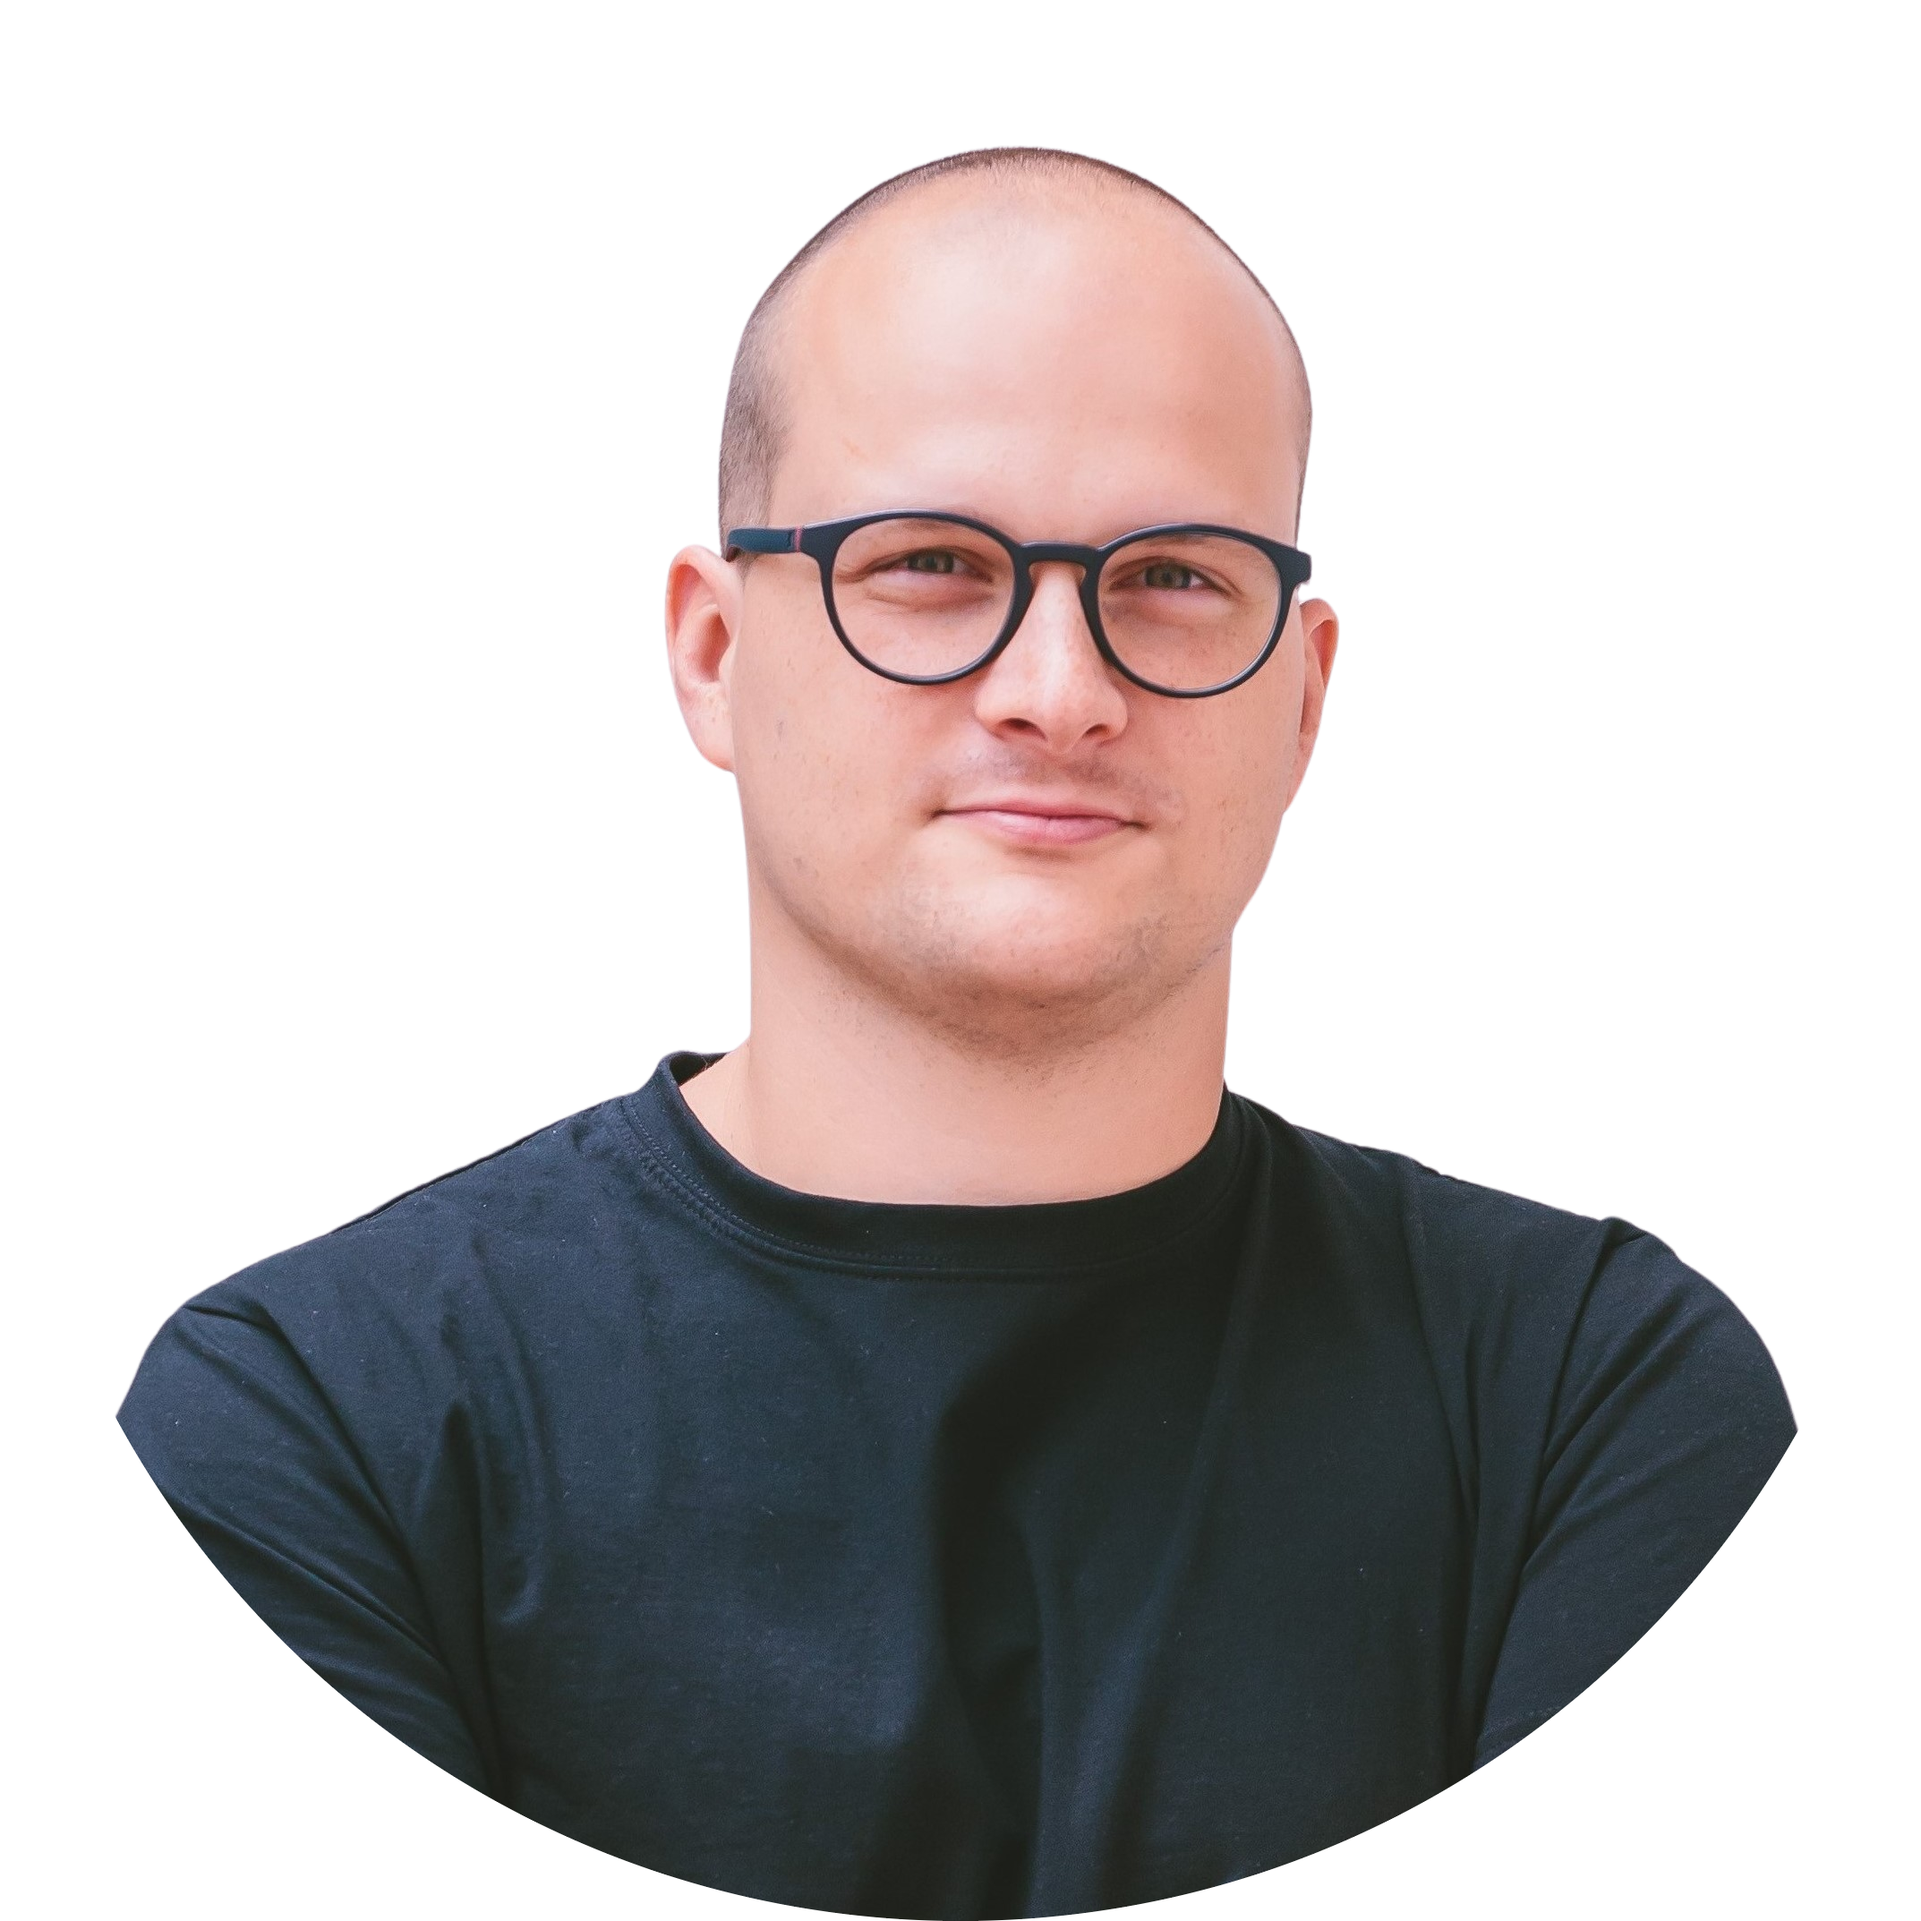
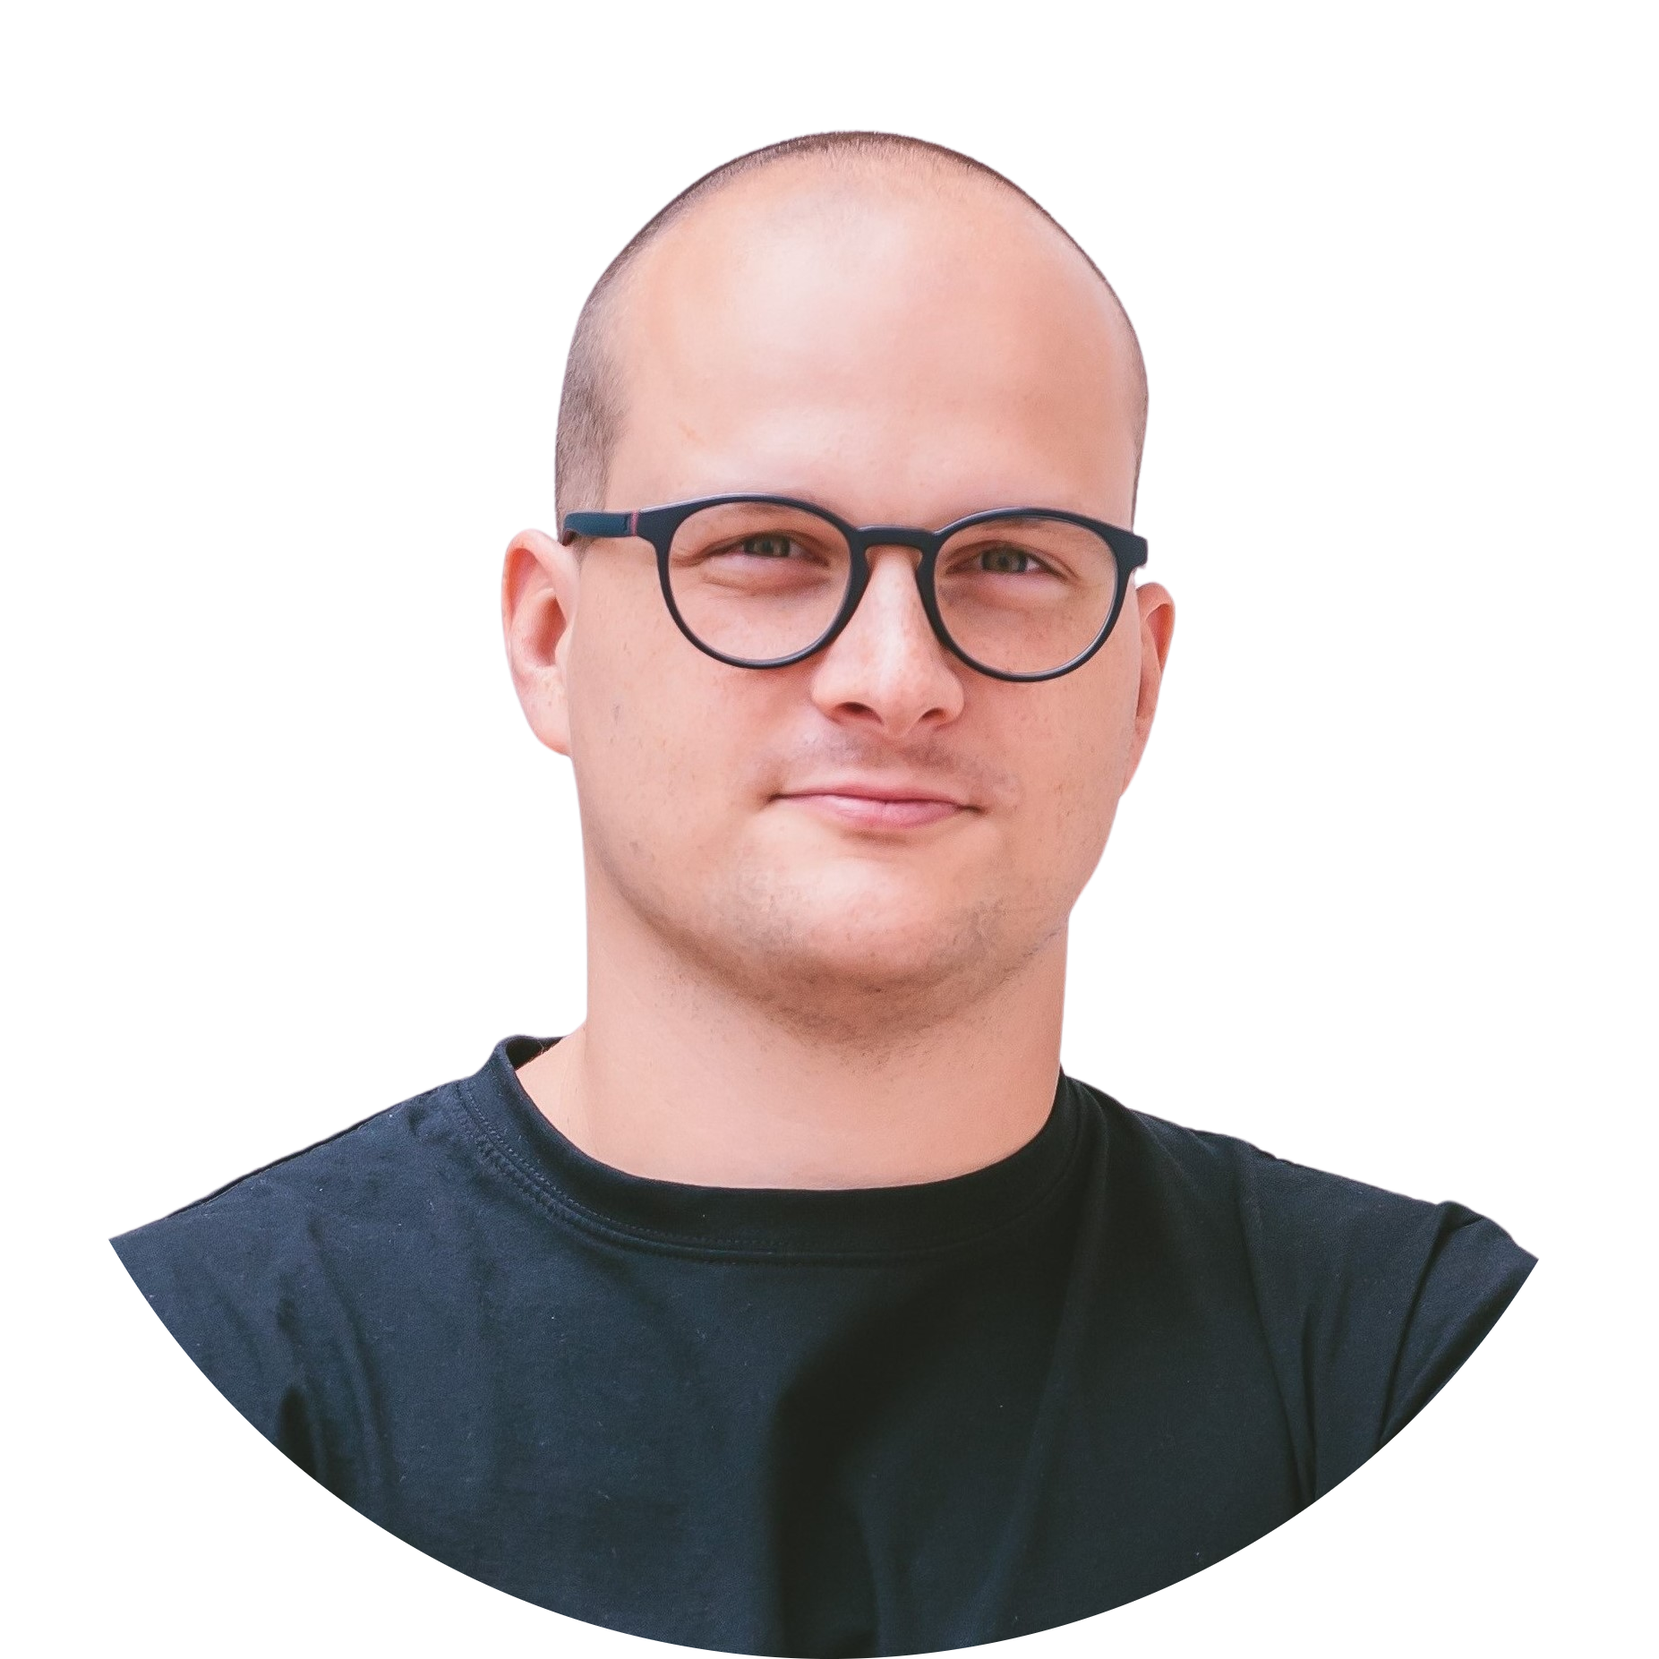
replace hero img and fix navbar padding

diff --git a/style.css b/style.css
@@ -9,14 +9,11 @@
 
 body {
   font-family: "Poppins", sans-serif;
+  margin-top: 5vh;
 }
 
 html {
   scroll-behavior: smooth;
-}
-
-p {
-  color: rgb(85, 85, 85);
 }
 
 /* transition */
@@ -34,12 +31,23 @@ nav,
 }
 
 nav {
-  justify-content: space-around;
+  display: flex;
+  position: fixed;
+  top: 0;
+  left: 0;
+  width: 100%;
+  z-index: 1000;
+  background-color: rgba(255, 255, 255, 0.7);
+  backdrop-filter: blur(10px);
+  justify-content: space-between;
   align-items: center;
+  padding: 0 2rem;
   height: 5vh;
+  box-sizing: border-box;
 }
 
 .nav-links {
+  display: flex;
   gap: 2rem;
   list-style: none;
   font-size: 1.5rem;
@@ -68,13 +76,13 @@ a:hover {
 
 /* hamburger menu */
 
-.hamburger-nav {
+#hamburger-nav {
   display: none;
 }
 
 .hamburger-menu {
   position: relative;
-  display: block;
+  display: inline-block;
 }
 
 .hamburger-icon {
@@ -111,7 +119,7 @@ a:hover {
   font-size: 1.5rem;
   color: black;
   text-decoration: none;
-  transition: all 0.3s ease-in-out;
+  transition: all 0.3 ease-in-out;
 }
 
 .menu-links li {
@@ -149,8 +157,8 @@ a:hover {
 /* sections */
 
 section {
-  padding-top: 4vh;
-  height: 96vh;
+  /* padding-top: 4vh;
+  height: 96vh; */
   margin: 0 10rem;
   box-sizing: border-box;
   min-height: fit-content;
@@ -166,7 +174,7 @@ section {
   display: flex;
   justify-content: center;
   gap: 5rem;
-  height: 80vh;
+  /* height: 80vh; */
 }
 
 .section-pic-container {
@@ -199,7 +207,7 @@ section {
   text-align: center;
 }
 
-.socials-container {
+#socials-container {
   display: flex;
   justify-content: center;
   margin-top: 1rem;
@@ -216,6 +224,7 @@ section {
 
 .btn-container {
   display: flex;
+  flex-direction: row;
   justify-content: center;
   gap: 1rem;
 }
@@ -230,7 +239,7 @@ section {
 
 .btn-color-1,
 .btn-color-2 {
-  border: rgb(53, 53, 53) 0.1rem solid;
+  border: black 0.1rem solid;
 }
 
 .btn-color-1:hover,
@@ -240,12 +249,13 @@ section {
 
 .btn-color-1,
 .btn-color-2:hover {
-  background: rgb(53, 53, 53);
+  background: black;
   color: white;
 }
 
 .btn-color-1:hover {
-  background: rgb(0, 0, 0);
+  background: white;
+  color: black;
 }
 
 .btn-color-2 {
@@ -253,14 +263,10 @@ section {
 }
 
 .btn-color-2:hover {
-  border: rgb(255, 255, 255) 0.1rem solid;
+  border: white 0.1rem solid;
 }
 
-.btn-container {
-  gap: 1rem;
-}
-
-/* about */
+/* about section */
 
 #about {
   position: relative;
@@ -270,6 +276,16 @@ section {
   gap: 2rem;
   margin-bottom: 2rem;
   margin-top: 2rem;
+}
+
+.details-container {
+  padding: 1.5rem;
+  flex: 1;
+  background: white;
+  border-radius: 2rem;
+  border: black 0.1rem solid;
+  border-color: black;
+  text-align: center;
 }
 
 .about-details-container {
@@ -288,7 +304,6 @@ section {
 
 .section-container {
   gap: 4rem;
-  height: 80%;
 }
 
 .section-pic-container {
@@ -297,7 +312,7 @@ section {
   margin: auto 0;
 }
 
-/* tech */
+/* tech section */
 
 #tech {
   position: relative;
@@ -335,16 +350,6 @@ section {
   vertical-align: middle;
 }
 
-.details-container {
-  padding: 1.5rem;
-  flex: 1;
-  background: white;
-  border-radius: 2rem;
-  border: rgb(53, 53, 53) 0.1rem solid;
-  border-color: rgb(163, 163, 163);
-  text-align: center;
-}
-
 .article-container article h3 {
   display: inline-flex;
   align-items: center;
@@ -368,8 +373,8 @@ section {
 }
 
 .color-container {
-  border-color: rgb(163, 163, 163);
-  background: rgb(255, 255, 255);
+  border-color: black;
+  background: white;
 }
 
 .work-img {
@@ -385,25 +390,24 @@ section {
 
 .work-btn {
   color: black;
-  border-color: rgb(163, 163, 163);
+  border-color: black;
 }
 
-/* contact */
+/* contact section */
 
 #contact {
   display: flex;
   justify-content: center;
   flex-direction: column;
-  height: 70vh;
+  /* height: 70vh; */
 }
 
 .contact-info-upper-container {
   display: flex;
   justify-content: center;
   border-radius: 2rem;
-  border: rgb(53, 53, 53) 0.1rem solid;
-  border-color: rgb(163, 163, 163);
-  background: (250, 250, 250);
+  border: black 0.1rem solid;
+  background: white;
   margin: 2rem auto;
   padding: 0.5rem;
 }

diff --git a/index.html b/index.html
@@ -12,7 +12,7 @@
     />
   </head>
   <body>
-    <nav class="desktop-nav">
+    <nav id="desktop-nav">
       <div class="logo">Michal Čapoun</div>
       <div>
         <ul class="nav-links">
@@ -24,7 +24,7 @@
       </div>
     </nav>
 
-    <nav class="hamburger-nav">
+    <nav id="hamburger-nav">
       <div class="logo">Michal Čapoun</div>
       <div class="hamburger-menu">
         <div class="hamburger-icon" onclick="toggleMenu()">
@@ -38,20 +38,19 @@
           <li><a href="#work" onclick="toggleMenu()">Work</a></li>
           <li><a href="#contact" onclick="toggleMenu()">Contact</a></li>
         </ul>
-      </div>
+    </div>
     </nav>
 
     <section id="profile">
       <div class="section-pic-container">
         <img
-          src="assets/hero-low-res.png"
+          src="assets/hero.png"
           alt="Michal Čapoun profile picture"
         />
       </div>
       <div class="section-text">
         <p class="section-text-p1">My name is</p>
         <h1 class="title">Michal Čapoun</h1>
-        <p class="section-text-p1">and I am</p>
         <h1 class="section-text-p2">Software Developer</h1>
         <div class="btn-containter">
           <button
@@ -64,7 +63,7 @@
             Contact Me
           </button>
         </div>
-        <div class="socials-container"></div>
+        <div id="socials-container"></div>
         <a
           class="icon"
           href="https://www.linkedin.com/in/michalcapoun/"
@@ -84,7 +83,7 @@
         <div class="section-pic-container">
           <img
             src="assets/hero-low-res.png"
-            alt="Profile picture"
+            alt=""
             class="about-pic"
           />
         </div>
@@ -165,8 +164,6 @@
             <a href="https://github.com/michalcapoun/foxhub" target="_blank">
               <button class="btn btn-color-2 work-btn">GitHub</button>
           </a>
-          </div>
-          <div class="btn-container">
             <a href="https://foxhub.gfapp.eu" target="_blank">
               <button class="btn btn-color-2 work-btn">Live Version</button>
           </a>
@@ -181,8 +178,6 @@
             <a href="https://github.com/michalcapoun/dragonaid" target="_blank">
               <button class="btn btn-color-2 work-btn">GitHub</button>
           </a>
-          </div>
-          <div class="btn-container">
             <a href="https://dragonaid.cloud/" target="_blank">
               <button class="btn btn-color-2 work-btn">Live Version</button>
           </a>
@@ -197,8 +192,6 @@
             <a href="https://github.com/michalcapoun/foxhub" target="_blank">
               <button class="btn btn-color-2 work-btn">GitHub</button>
           </a>
-          </div>
-          <div class="btn-container">
             <a href="https://foxhub.gfapp.eu" target="_blank">
               <button class="btn btn-color-2 work-btn">Live Version</button>
           </a>
@@ -214,7 +207,7 @@
       <div class="contact-info-upper-container">
         <div class="contact-info-container">
           <i class='bx bx-envelope' ></i>
-          <p><a href="mailto:example@gmail.com">example@gmail.com</a></p>
+          <p><a href="mailto:example@gmail.com">contact@michalcapoun.cz</a></p>
         </div>
         <div class="contact-info-container">
           <i class='bx bxl-linkedin-square' ></i>
@@ -224,7 +217,7 @@
     </section>
 
     <footer>
-      <p>Copyright &#169; 2024 Michal Čapoun, All Rights Reserved</p>
+      <p>Copyright &#169; 2024 Michal Čapoun</p>
     </footer>
 
     <script src="script.js"></script>

diff --git a/mediaqueries.css b/mediaqueries.css
@@ -9,10 +9,10 @@
 }
 
 @media screen and (max-width: 1200px) {
-  .desktop-nav {
+  #desktop-nav {
     display: none;
   }
-  .hamburger-nav {
+  #hamburger-nav {
     display: flex;
   }
   #tech,
